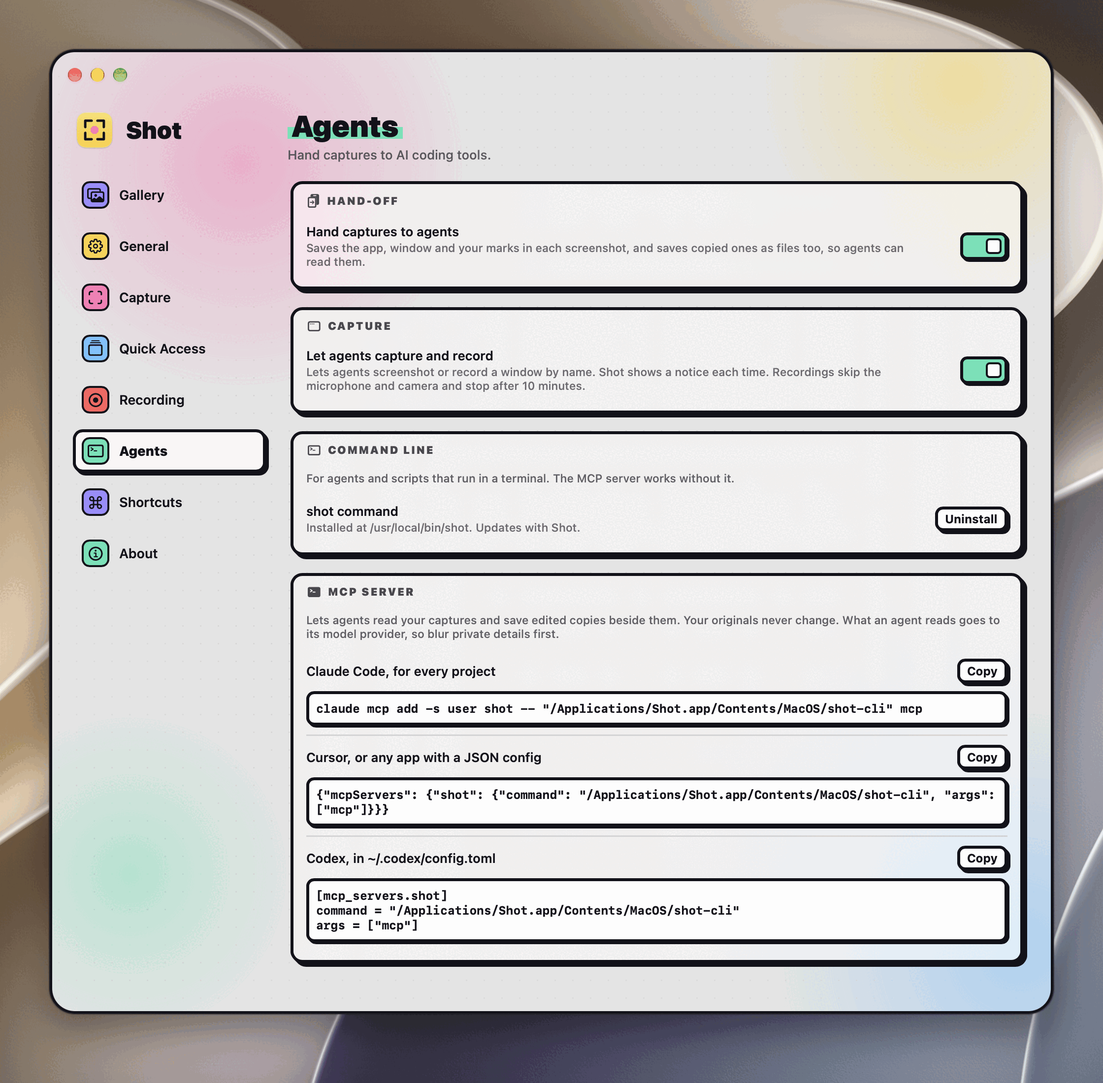
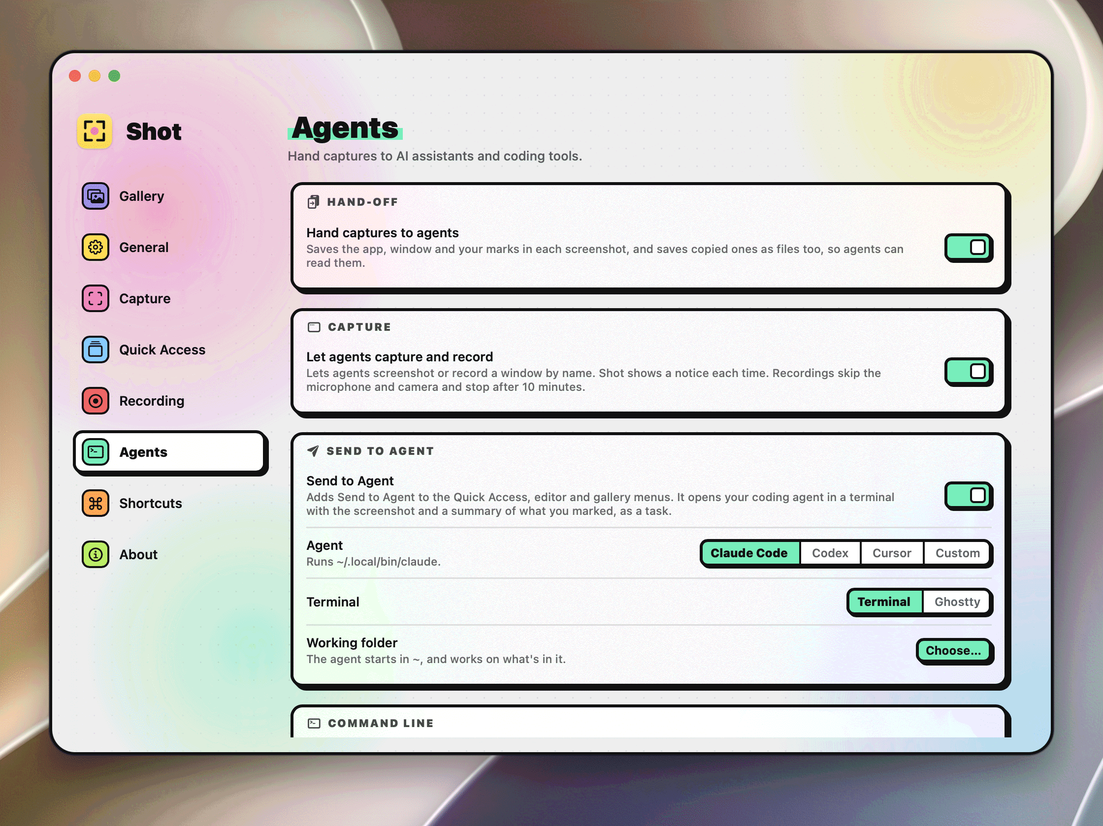
docs: show Send to Agent in the Agents settings screenshot (#813)
## What and why

`docs/media/agents-settings.png` predates #812, so it didn't show the
**Send to Agent** card that now sits between Capture and Command line in
Settings › Agents. This reshoots it.

- Taken from a dev build of `main` (0.7.0-beta.67, 523), because no
release has Send to Agent yet. All three switches are on, and Send to
Agent is set to open Claude Code in Terminal, with no working folder
chosen.
- The window ends just below the Send to Agent card, with the Command
line header at the bottom edge. A dev build's Command line and MCP
server cards name `shot-dev` and the build's own path, so showing them
would put dev-only text in the docs. The MCP setup has its own guide
page.
- Same style as #440: light mode at 2×, the active window and its shadow
over the desktop wallpaper, quantized to a 256-colour PNG. 2240 × 1678
px, 976 KB (was 2240 × 2200 px, 786 KB).
- The alt text in `README.md` and on the Use Shot with AI agents guide
page now describes Send to Agent, and loses the "and and" typo.

Part of #493

## How I tested it

- [x] `make lint` passes
- [x] `cd site && npm run build` passes
- [x] Checked the image at full size: the text is sharp, and no dev path
or name shows

diff --git a/README.md b/README.md
@@ -60,7 +60,7 @@
 
 Circle the bug, copy, and paste it into your agent: your arrows and notes show it exactly where to look. Or turn on Send to Agent, and Shot opens Claude Code, Codex or Cursor in a terminal with the screenshot and your marks as a task. An agent can also find your captures, read the text in them and what you said while recording, hide secrets in them, edit them with every layer still live, and screenshot or record a window such as the Simulator. See [Use Shot with AI agents](https://shot.lorcanchinnock.com/docs/use-shot-with-ai-agents/).
 
-<img src="docs/media/agents-settings.png" width="720" alt="Settings › Agents with Hand captures to agents and Let agents capture and record turned on, the shot command installed, and and the MCP server setup for each assistant and agent on the Mac, with Install and Copy buttons">
+<img src="docs/media/agents-settings.png" width="720" alt="Settings › Agents with Hand captures to agents, Let agents capture and record, and Send to Agent turned on, and Send to Agent set to open Claude Code in Terminal, with a choice of Codex, Cursor or a command of your own, and a working folder">
 
 ## Install
 

diff --git a/site/src/guide/08a-use-shot-with-ai-agents.md b/site/src/guide/08a-use-shot-with-ai-agents.md
@@ -7,7 +7,7 @@ aliases: [using-shot-with-ai-agents]
 
 AI assistants like Claude and ChatGPT, and coding agents like Claude Code, Codex and Cursor, all take a pasted screenshot, and your arrows and boxes show them where to look. Shot can do more: hand over the file itself, tell the agent exactly what you marked, and let it fetch your captures, edit them, or take its own.
 
-![Settings › Agents with Hand captures to agents and Let agents capture and record turned on, the shot command installed, and and the MCP server setup for each assistant and agent on the Mac, with Install and Copy buttons](../../../docs/media/agents-settings.png)
+![Settings › Agents with Hand captures to agents, Let agents capture and record, and Send to Agent turned on, and Send to Agent set to open Claude Code in Terminal, with a choice of Codex, Cursor or a command of your own, and a working folder](../../../docs/media/agents-settings.png)
 
 ## Paste a marked-up screenshot
 
